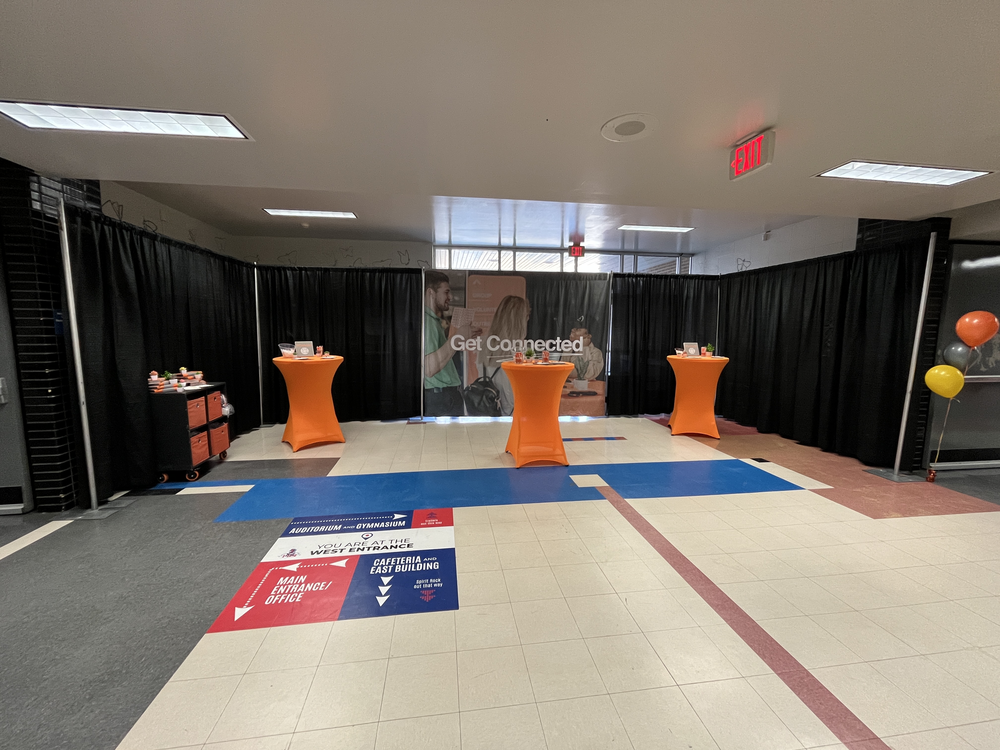
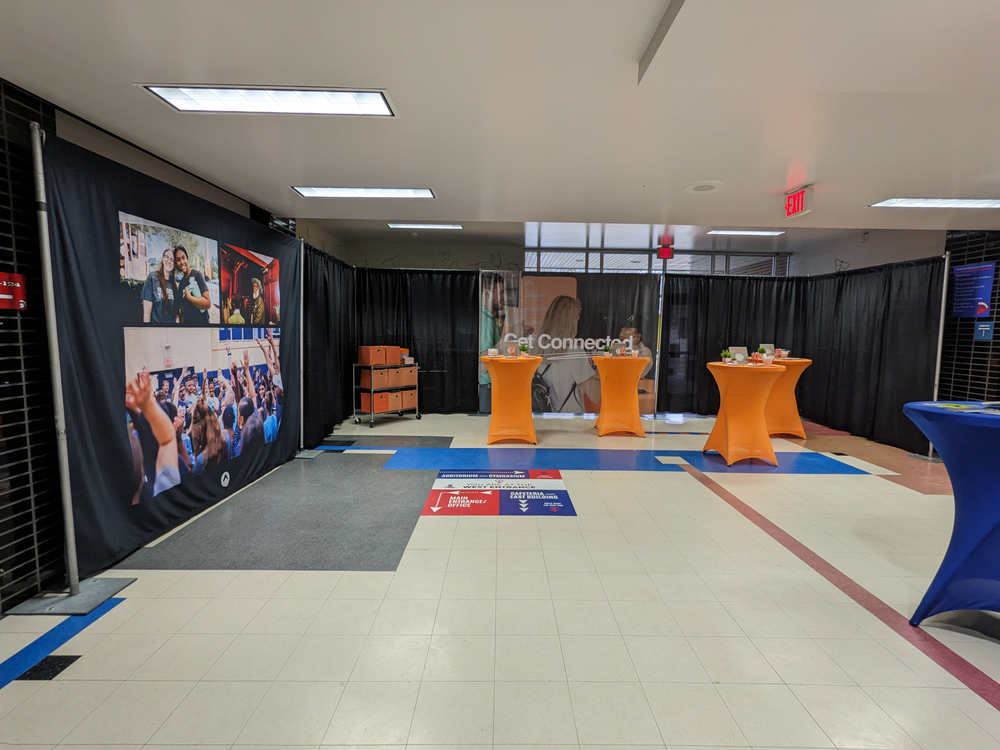
Updated images
Updated all images to reflect how the set up should be with the proper banners. Teams used the correct banners this past week so we could get new images.

diff --git a/index.html b/index.html
@@ -38,21 +38,24 @@
       <a href="#" class="camera-icon" data-image="images/outside-aud-greeters.png" data-header="Outside Auditorium" data-text="Banner and table at the entrance of the auditorium lobby." style="top: 68.5%; left: 41%;">
         <img src="images/camera-icon.png" alt="Camera Icon" />
       </a>
-      <a href="#" class="camera-icon" data-image="images/indoor-connections.png" data-header="Connections" data-text="The indoor connections area." style="top: 72%; left: 91%;">
+      <a href="#" class="camera-icon" data-images="images/indoor-connections.png, images/indoor-connections-wide.png, images/yth-table.png" data-header="Connections" data-text="The indoor connections area." style="top: 72%; left: 91%;">
         <img src="images/camera-icon.png" alt="Camera Icon" />
       </a>
       <a href="#" class="camera-icon" data-image="images/ehq-hall.png" data-header="eHQ Hallway" data-text="Drape off the hallway leading to eHQ." style="top: 25%; left: 89%;">
         <img src="images/camera-icon.png" alt="Camera Icon" />
-      <a href="#" class="camera-icon" data-image="images/front-door-inside.png" data-header="Entrance" data-text="Main entrance when guests first walk into the school." style="top: 5%; left: 92%;">
+      <a href="#" class="camera-icon" data-images="images/entrance-drape.png, images/entrance-door.png" data-header="Entrance" data-text="Main entrance when guests first walk into the school." style="top: 5%; left: 92%;">
         <img src="images/camera-icon.png" alt="Camera Icon" />
       </a>
-      <a href="#" class="camera-icon" data-image="images/lobby-outside-ekidz.png" data-header="Lobby" data-text="Lobby area outside eKidz and the auditorium entrance." style="top: 72.5%; left: 49%;">
+       <a href="#" class="camera-icon" data-images="images/cafeteria-door.png, images/first-hallway-banner.png" data-header="First Hallway" data-text="The drape and banner that go in the first hallway near the locked cafeteria doors." style="top: 16%; left: 92%;">
+        <img src="images/camera-icon.png" alt="Camera Icon" />
+      </a>
+      <a href="#" class="camera-icon" data-image="images/area-outside-lobby.png" data-header="Lobby" data-text="Lobby area outside eKidz and the auditorium entrance." style="top: 72.5%; left: 49%;">
         <img src="images/camera-icon.png" alt="Camera Icon" />
       </a>
       <a href="#" class="camera-icon" data-image="images/outside-aud-1.png" data-header="Outside Auditorium" data-text="Three piece banner blocking the doors outside the auditorium" style="top: 84.7%; left: 41.5%;">
         <img src="images/camera-icon.png" alt="Camera Icon" />
       </a>
-      <a href="#" class="camera-icon" data-image="images/bathroom-hallway.png" data-header="Hallway" data-text="The hallway right past the indoor connections area." style="top: 69%; left: 81%;">
+      <a href="#" class="camera-icon" data-image="images/hallway-bathroom.png" data-header="Hallway" data-text="The hallway right past the indoor connections area." style="top: 69%; left: 81%;">
         <img src="images/camera-icon.png" alt="Camera Icon" />
       </a>
       <a href="#" class="camera-icon" data-image="images/stage-right-drape.png" data-header="Stage Right Drape" data-text="The drape we add to the stairs, stage right." style="top: 90.5%; left: 19%;">
